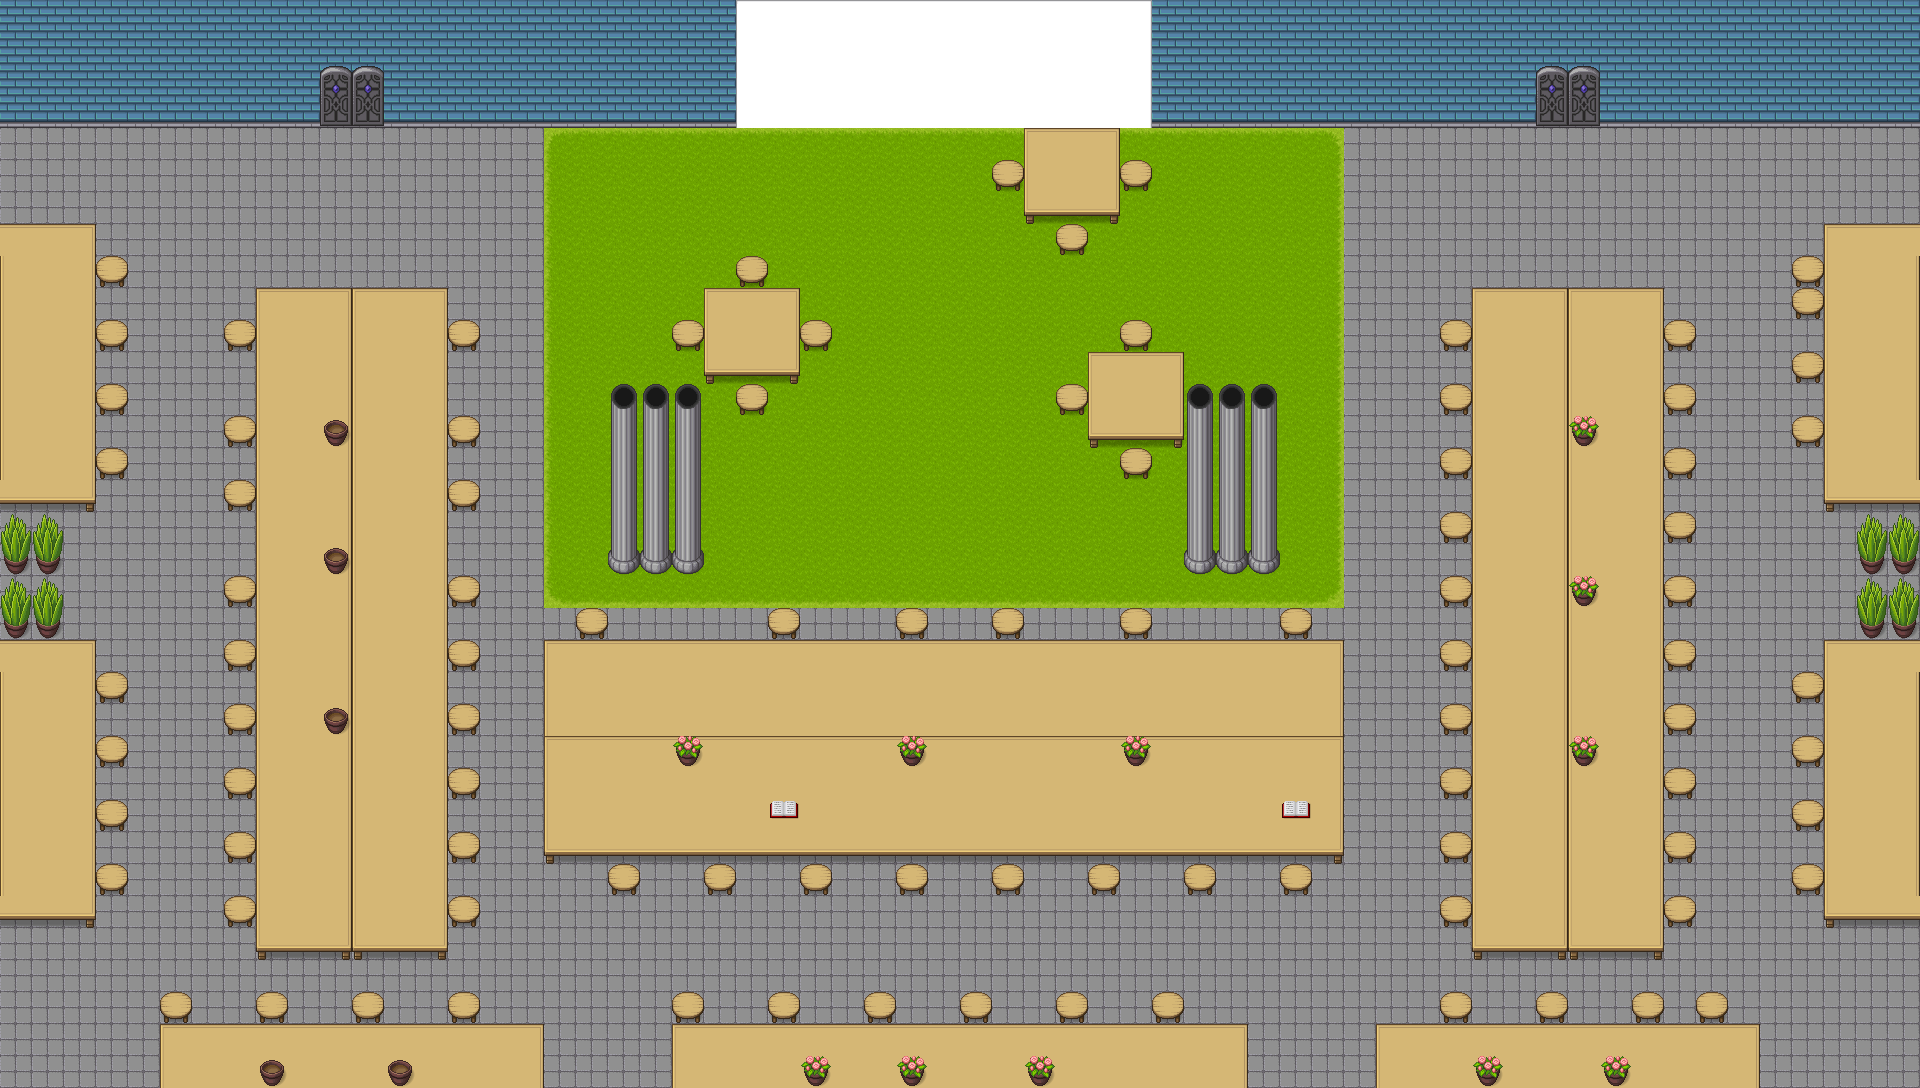
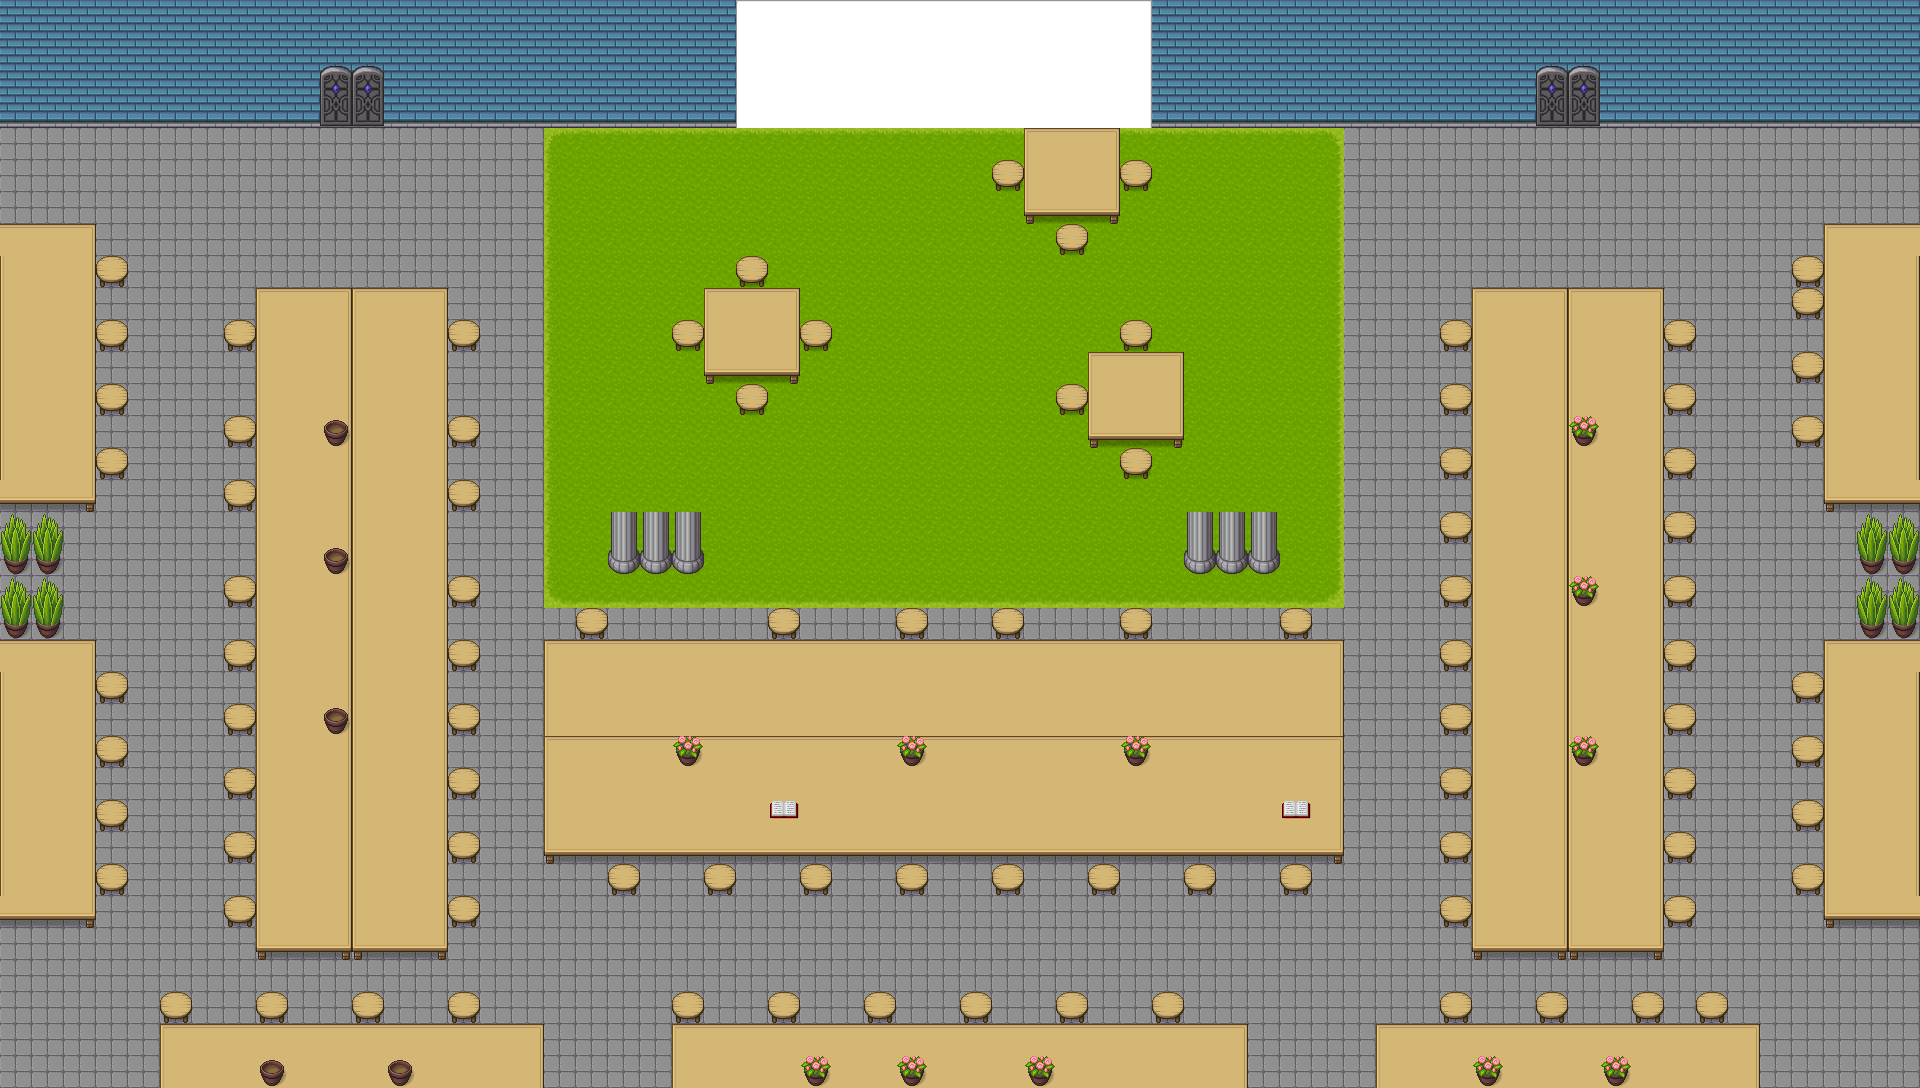
added depth effects with new pngs

Changed region(s): [[0.5938, 0.3438, 0.6875, 0.4688], [0.3125, 0.3438, 0.375, 0.4688]]

diff --git a/src/player_and_map/player_movement.c b/src/player_and_map/player_movement.c
@@ -29,19 +29,19 @@ void change_map_0(main_t *main_struct)
 void change_map_1(main_t *main_struct)
 {
     if (main_struct->pm.player.scene == 1) {
-        if (main_struct->pm.player.pos.y <= 321 && main_struct->pm.player.pos.x <= 990 
+        if (main_struct->pm.player.pos.y <= 330 && main_struct->pm.player.pos.x <= 990 
         && main_struct->pm.player.pos.x >= 800) {
             main_struct->pm.player.scene = 2;
             main_struct->pm.player.pos.y = 87;
             main_struct->pm.player.pos.x = 1047;
         }
-        if (main_struct->pm.player.pos.y >= 1050 && main_struct->pm.player.pos.x >= 1408 
+        if (main_struct->pm.player.pos.y >= 1040 && main_struct->pm.player.pos.x >= 1408 
         && main_struct->pm.player.pos.x <= 1564) {
             main_struct->pm.player.scene = 0;
             main_struct->pm.player.pos.y = 132;
             main_struct->pm.player.pos.x = 1497;
         }
-        if (main_struct->pm.player.pos.y >= 1050 && main_struct->pm.player.pos.x >= 289 
+        if (main_struct->pm.player.pos.y >= 1040 && main_struct->pm.player.pos.x >= 289 
         && main_struct->pm.player.pos.x <= 412) {
             main_struct->pm.player.scene = 0;
             main_struct->pm.player.pos.y = 132;
@@ -56,7 +56,7 @@ void change_map_2(main_t *main_struct)
         if (main_struct->pm.player.pos.y <= 34 && main_struct->pm.player.pos.x <= 1122 
         && main_struct->pm.player.pos.x >= 990) {
             main_struct->pm.player.scene = 1;
-            main_struct->pm.player.pos.y = 342;
+            main_struct->pm.player.pos.y = 370;
             main_struct->pm.player.pos.x = 933;
         }
     }

diff --git a/src/player_and_map/smi1_init.c b/src/player_and_map/smi1_init.c
@@ -18,6 +18,15 @@ void put_map_sm1(main_t *main_struct)
     }
 }
 
+void put_map_sm1_3D(main_t *main_struct)
+{
+    if (main_struct->player->fight_scene)
+        return;
+    if (main_struct->pm.player.scene == 0) {
+        sfRenderWindow_drawSprite(main_struct->window, main_struct->pm.map_3D.map_sp->sprite, NULL);
+    }
+}
+
 void put_player(main_t *main_struct)
 {
     sfSprite_setPosition(main_struct->pm.player.player_sp->sprite, main_struct->pm.player.pos);
@@ -38,4 +47,5 @@ void init_map(main_t *main_struct)
     main_struct->pm.view = sfView_create();
     sfView_setSize(main_struct->pm.view, (sfVector2f){960, 540});
     main_struct->pm.map.map_sp = load_sprite("./ressources/maps/sm1.png");
+    main_struct->pm.map_3D.map_sp = load_sprite("./ressources/maps/sm1_3D.png");
 }

diff --git a/src/player_and_map/corridor_init.c b/src/player_and_map/corridor_init.c
@@ -28,6 +28,15 @@ void put_ground(main_t *main_struct)
     }
 }
 
+void put_ground_3D(main_t *main_struct)
+{
+    if (main_struct->player->fight_scene)
+        return;
+    if (main_struct->pm.player.scene == 2) {
+        sfRenderWindow_drawSprite(main_struct->window, main_struct->pm.ground_3D.map_sp->sprite, NULL);
+    }
+}
+
 void init_corridor(main_t *main_struct)
 {
     main_struct->pm.corridor.map_sp = load_sprite("./ressources/maps/corridor.png");
@@ -36,4 +45,5 @@ void init_corridor(main_t *main_struct)
 void init_ground(main_t *main_struct)
 {
     main_struct->pm.ground.map_sp = load_sprite("./ressources/maps/new_ground.png");
+    main_struct->pm.ground_3D.map_sp = load_sprite("./ressources/maps/ground.png");
 }

diff --git a/include/render.h b/include/render.h
@@ -26,13 +26,17 @@ void put_map_sm1(main_t *main_struct);
 void put_player(main_t *main_struct);
 void put_corridor(main_t *main_struct);
 void put_ground(main_t *main_struct);
+void put_map_sm1_3D(main_t *main_struct);
+void put_ground_3D(main_t *main_struct);
 /////////////////////////////
 
 //////////FUNCS//////////////
 render_t render_funcs[] = {
     {put_map_sm1},
+    {put_map_sm1_3D},
     {put_corridor},
     {put_ground},
+    {put_ground_3D},
     {render_objects},
     {render_pnjs},
     {render_quests},

diff --git a/src/main.c b/src/main.c
@@ -54,7 +54,6 @@ int main(UNUSED int ac, UNUSED char **av)
             exec_pause(&main_struct);
         } else
             render(&main_struct);
-        printf("x = %f y = %f\n", main_struct.pm.player.pos.x, main_struct.pm.player.pos.y);
     }
     return (0);
 }

diff --git a/include/player_and_map/player_and_map_struct.h b/include/player_and_map/player_and_map_struct.h
@@ -39,8 +39,11 @@ typedef struct playmap_s {
     sfView *view;
     cam_t cam;
     map_t map;
+    map_t map_3D;
     map_t corridor;
+    map_t corridor_3D;
     map_t ground;
+    map_t ground_3D;
     perso_t player;
     int map_scene;
 } playmap_t;
